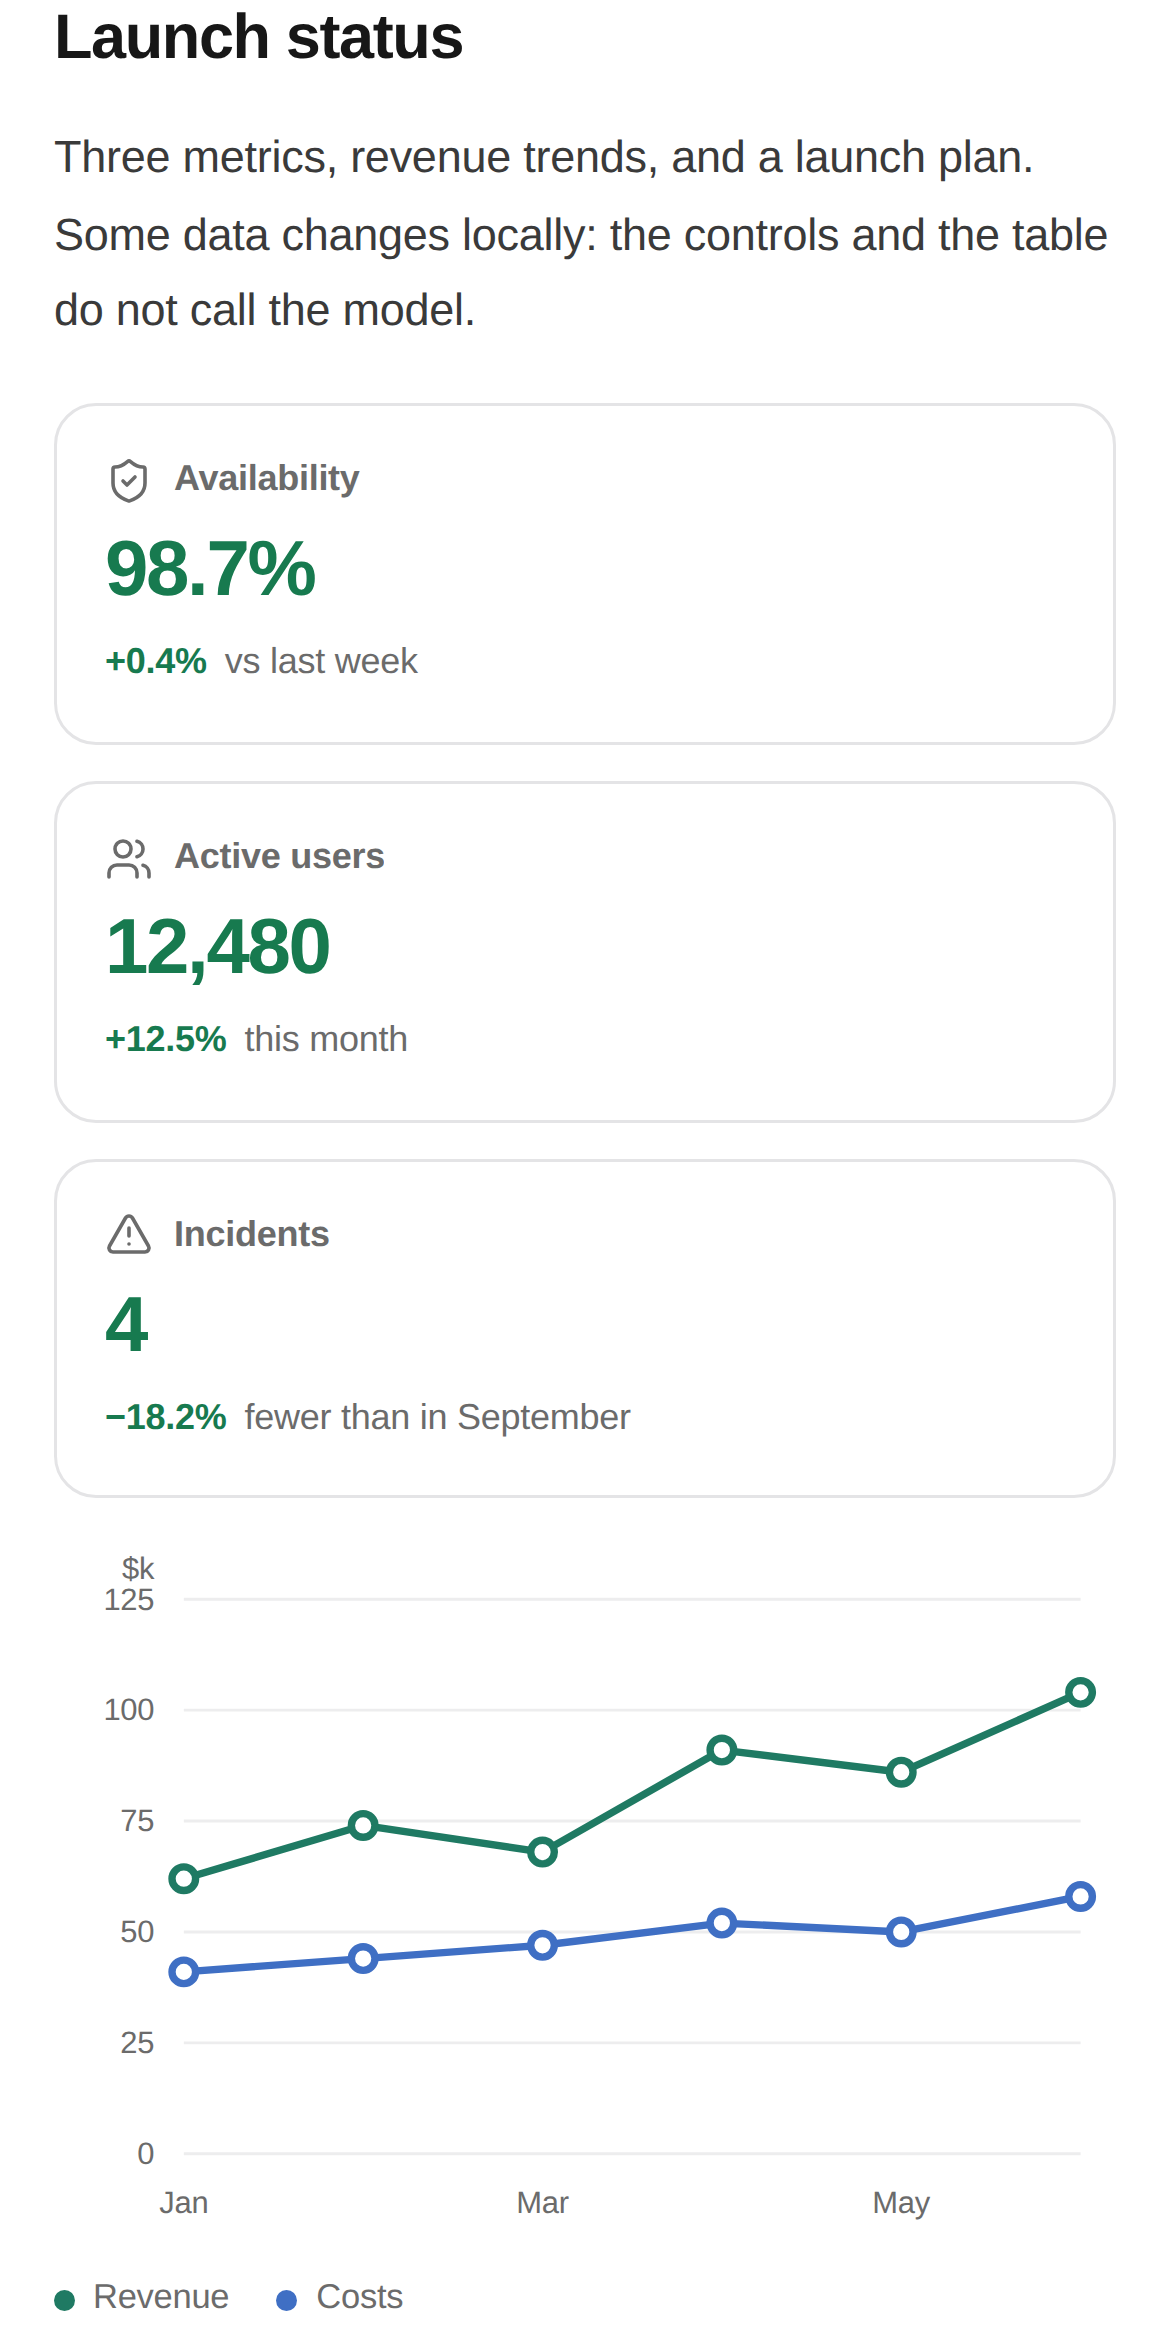
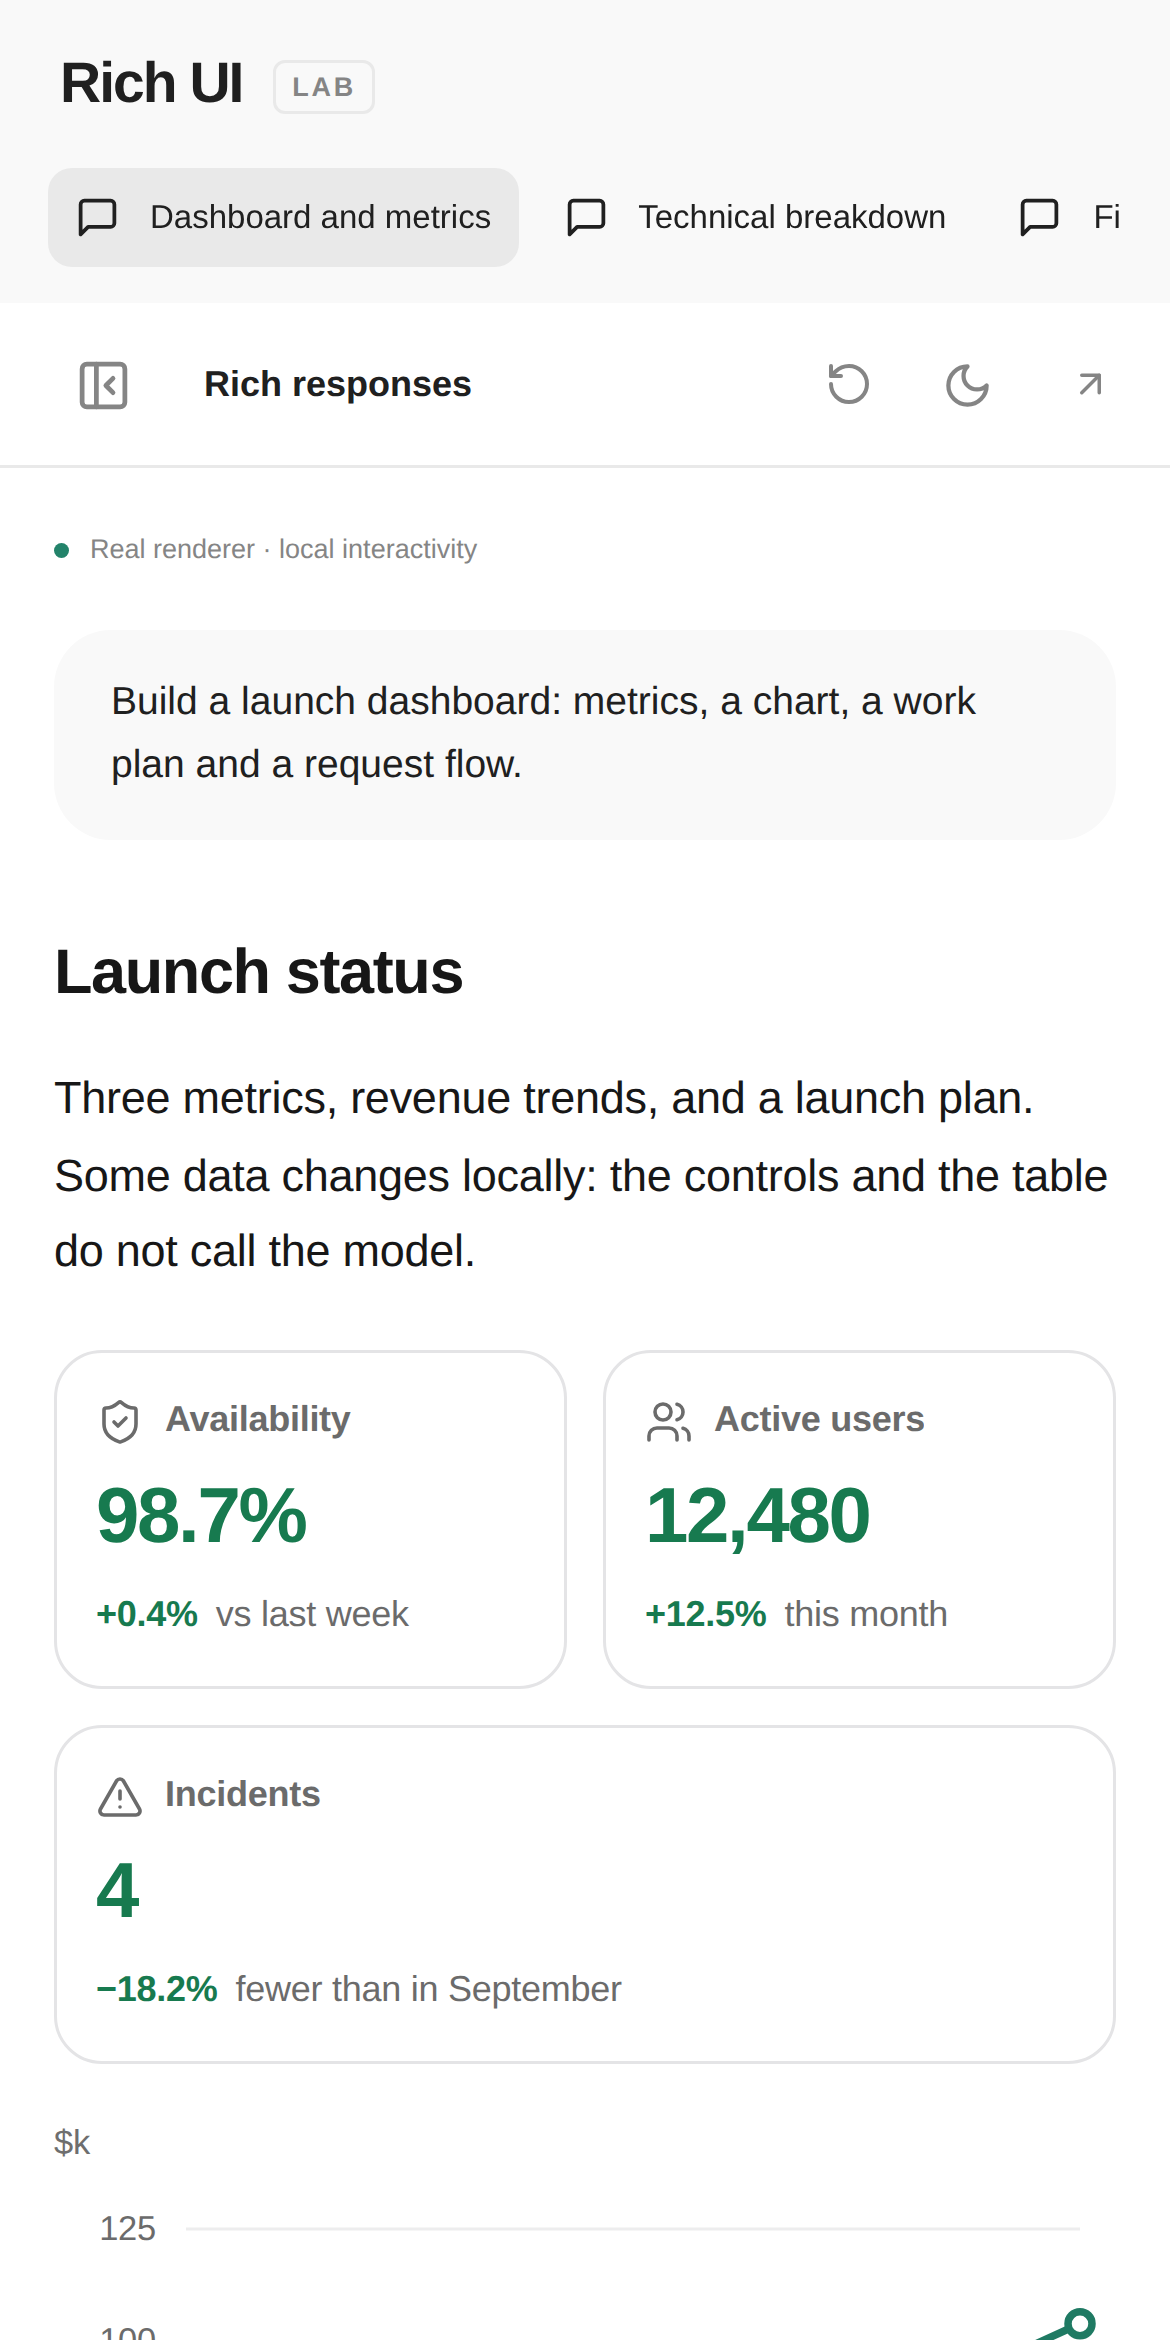
Release 0.5.5: use the host success token and refresh mobile docs

diff --git a/tests/e2e/scenarios.spec.ts b/tests/e2e/scenarios.spec.ts
@@ -393,6 +393,38 @@ test("dark host tokens beat the light bridge inside a rich root", async ({
   expect(tone.background).not.toBe("rgba(0, 0, 0, 0)");
 });
 
+test("success states use the host success token, not its blue business accent", async ({
+  page,
+}) => {
+  await page.goto("/?demo=dashboard&theme=light");
+  const color = await page.evaluate(() => {
+    document.body.style.setProperty(
+      "--dsw-alias-state-business-primary",
+      "#4176e6",
+    );
+    document.body.style.setProperty(
+      "--dsw-alias-state-success-primary",
+      "#22c55e",
+    );
+    const root = document.createElement("div");
+    root.setAttribute("data-rich-ui-root", "");
+    const ui = document.createElement("div");
+    ui.className = "rich-ui";
+    const stat = document.createElement("div");
+    stat.className = "ru-stat";
+    stat.dataset.tone = "success";
+    const value = document.createElement("div");
+    value.className = "ru-stat-value";
+    value.textContent = "98.7%";
+    stat.append(value);
+    ui.append(stat);
+    root.append(ui);
+    document.body.append(root);
+    return getComputedStyle(value).color;
+  });
+  expect(color).toBe("rgb(34, 197, 94)");
+});
+
 test("mobile tables keep the last column readable and covers fill their card", async ({
   page,
 }) => {

diff --git a/src/ui/rich-ui.css b/src/ui/rich-ui.css
@@ -152,10 +152,12 @@
     var(--dsw-alias-state-business-primary, #1f7a63) 12%,
     var(--dsw-alias-bg-layer-1, #ffffff)
   );
-  --ru-success: var(--dsw-alias-state-business-primary, #177a4f);
+  /* Success is its own semantic token. The host business accent is frequently
+     blue, and reusing it painted green "done" states as links. */
+  --ru-success: var(--dsw-alias-state-success-primary, #177a4f);
   --ru-success-soft: color-mix(
     in srgb,
-    var(--dsw-alias-state-business-primary, #177a4f) 12%,
+    var(--dsw-alias-state-success-primary, #177a4f) 12%,
     var(--dsw-alias-bg-layer-1, #ffffff)
   );
   --ru-warning: var(--dsw-alias-state-warn-primary, #92600f);
@@ -234,10 +236,10 @@ body[data-ds-dark-theme] .rich-ui {
     var(--dsw-alias-state-business-primary, #6fc5a6) 18%,
     var(--dsw-alias-bg-layer-1, #212121)
   );
-  --ru-success: var(--dsw-alias-state-business-primary, #74c79f);
+  --ru-success: var(--dsw-alias-state-success-primary, #74c79f);
   --ru-success-soft: color-mix(
     in srgb,
-    var(--dsw-alias-state-business-primary, #74c79f) 18%,
+    var(--dsw-alias-state-success-primary, #74c79f) 18%,
     var(--dsw-alias-bg-layer-1, #212121)
   );
   --ru-warning: var(--dsw-alias-state-warn-primary, #e0b062);

diff --git a/README.md b/README.md
@@ -57,7 +57,7 @@ The renderer is a real React tree behind a strict schema. There is no generated 
 </p>
 
 <p align="center">
-  <img alt="The same dashboard on a 390 pixel phone: stacked KPI cards, a readable chart and a four-column table that fits" src="docs/images/dashboard-mobile.png" width="300">
+  <img alt="The same dashboard on a 390 pixel phone: two-column KPI cards, all six chart month labels and a four-column table that fits" src="docs/images/dashboard-mobile.png" width="300">
   <br>
   <em>390 px: cards stack, the chart gets its own coordinate system, the table still fits.</em>
 </p>
